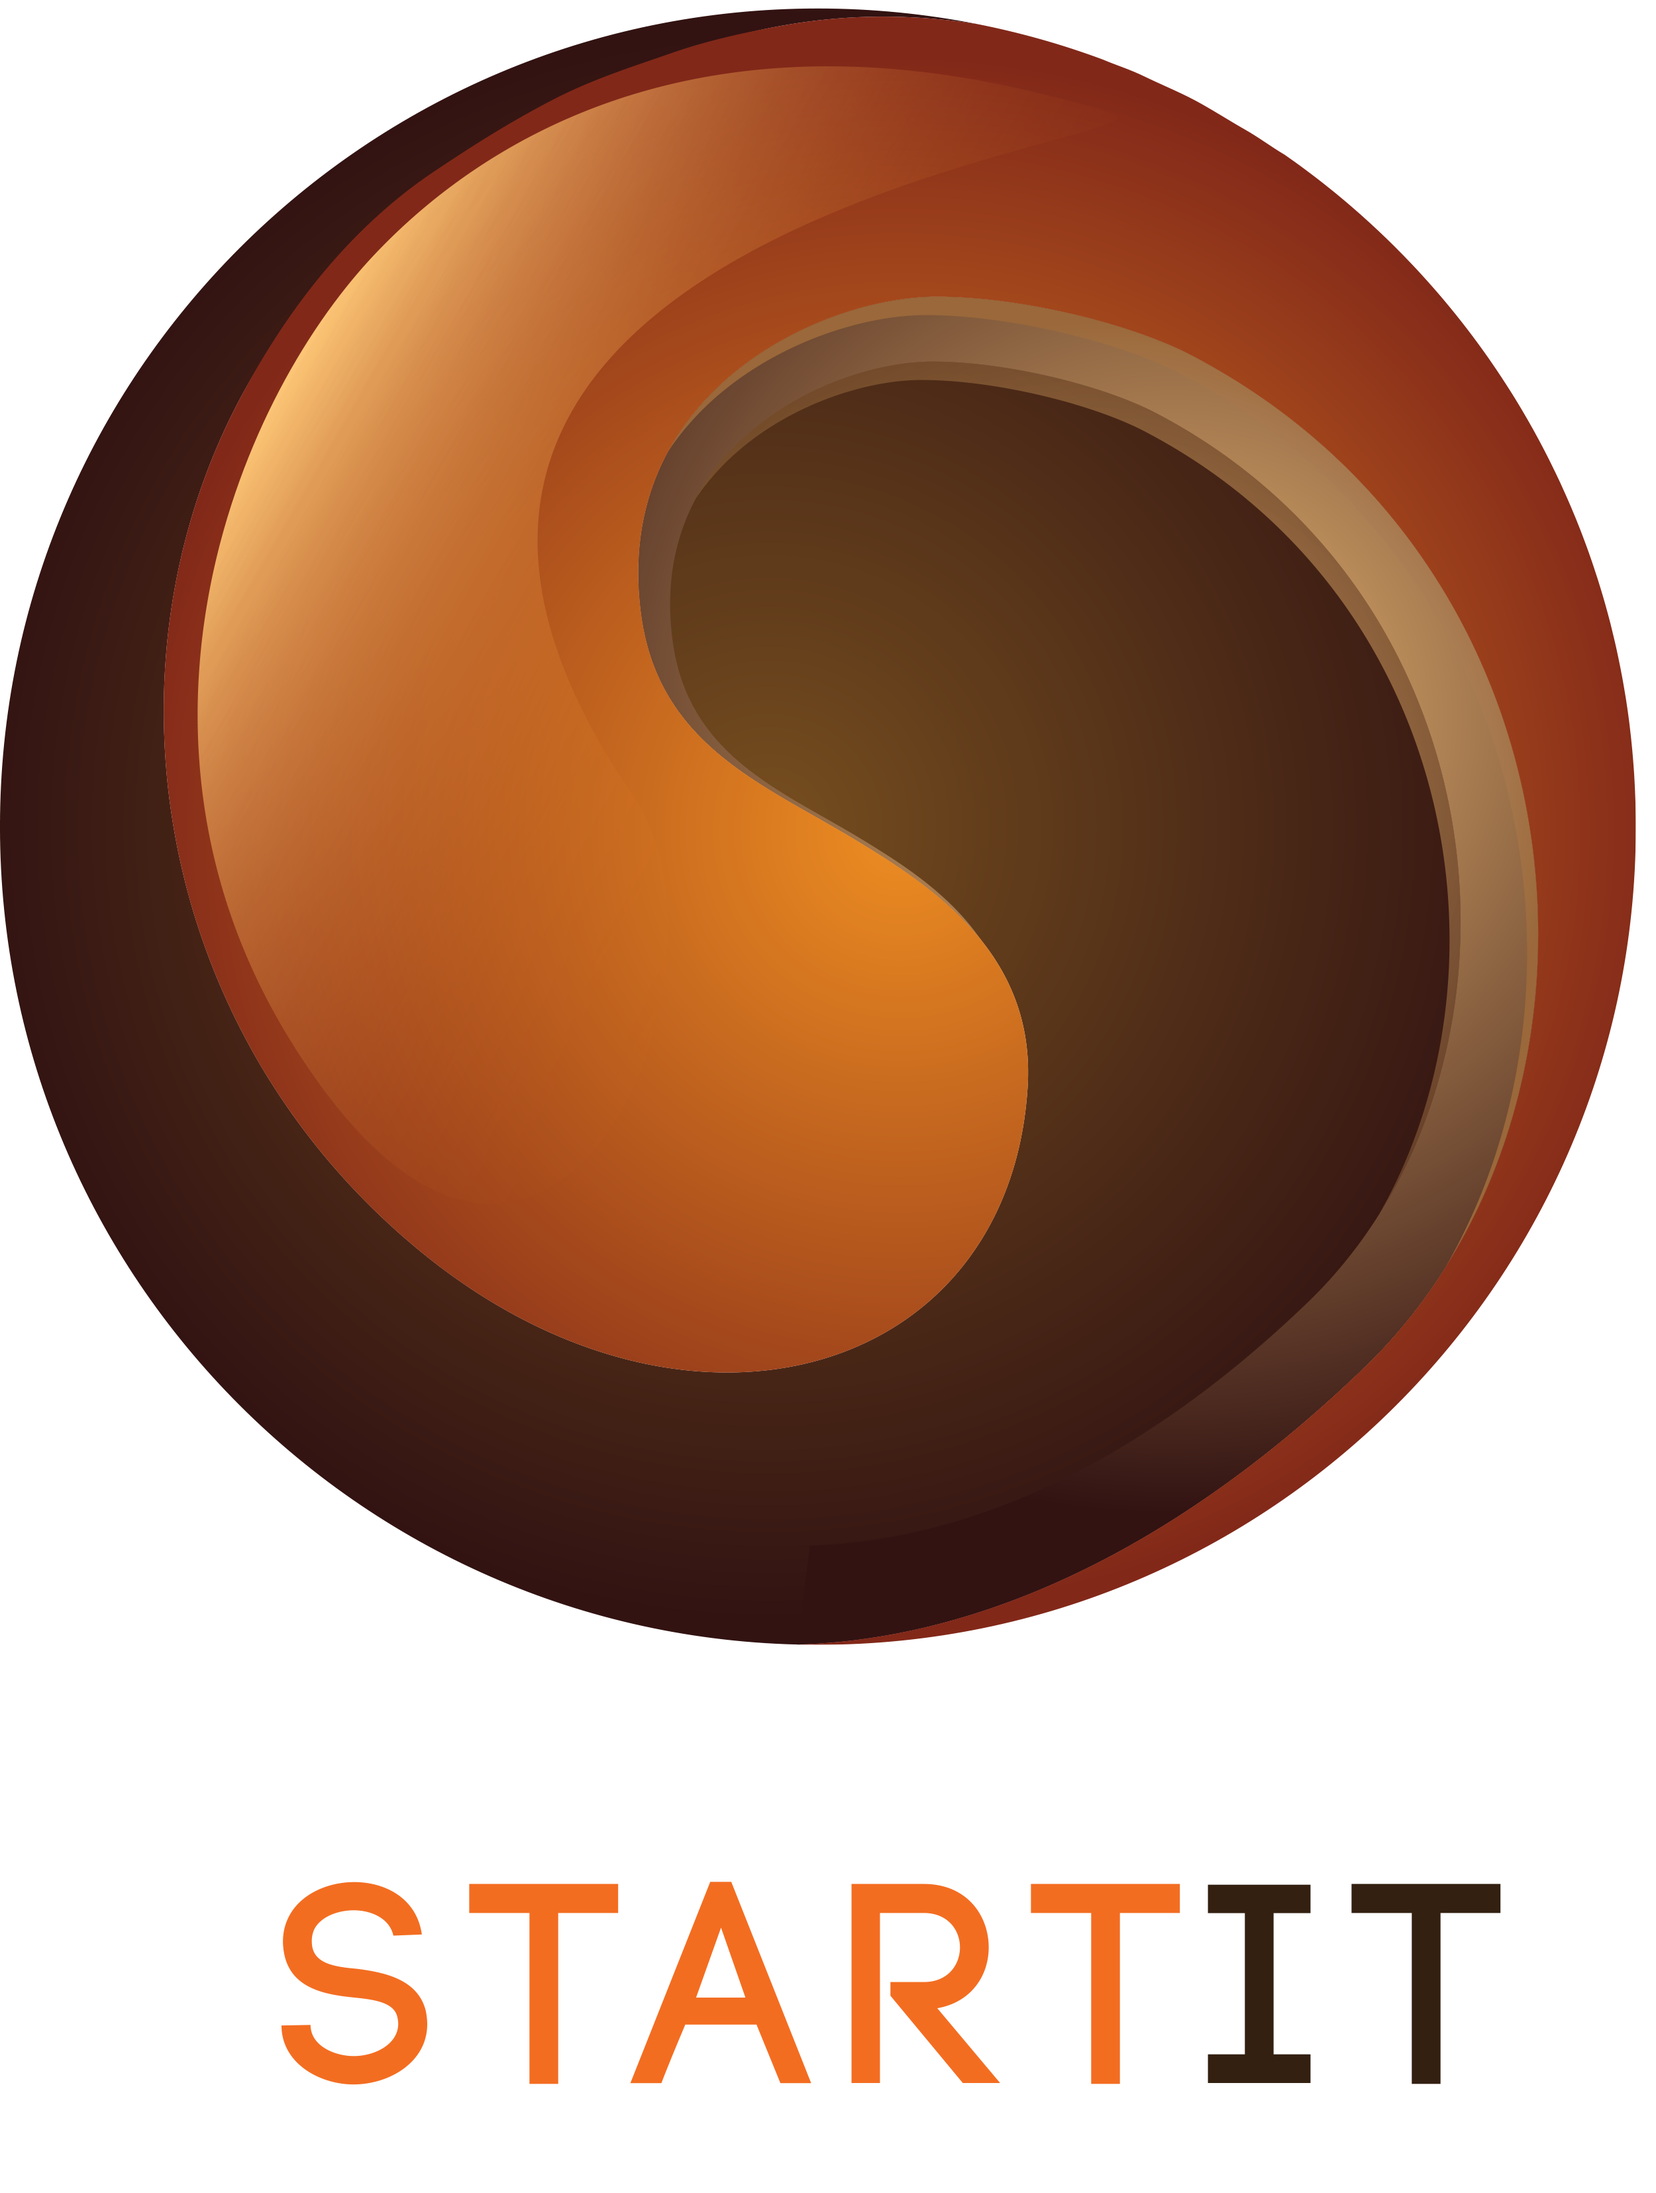
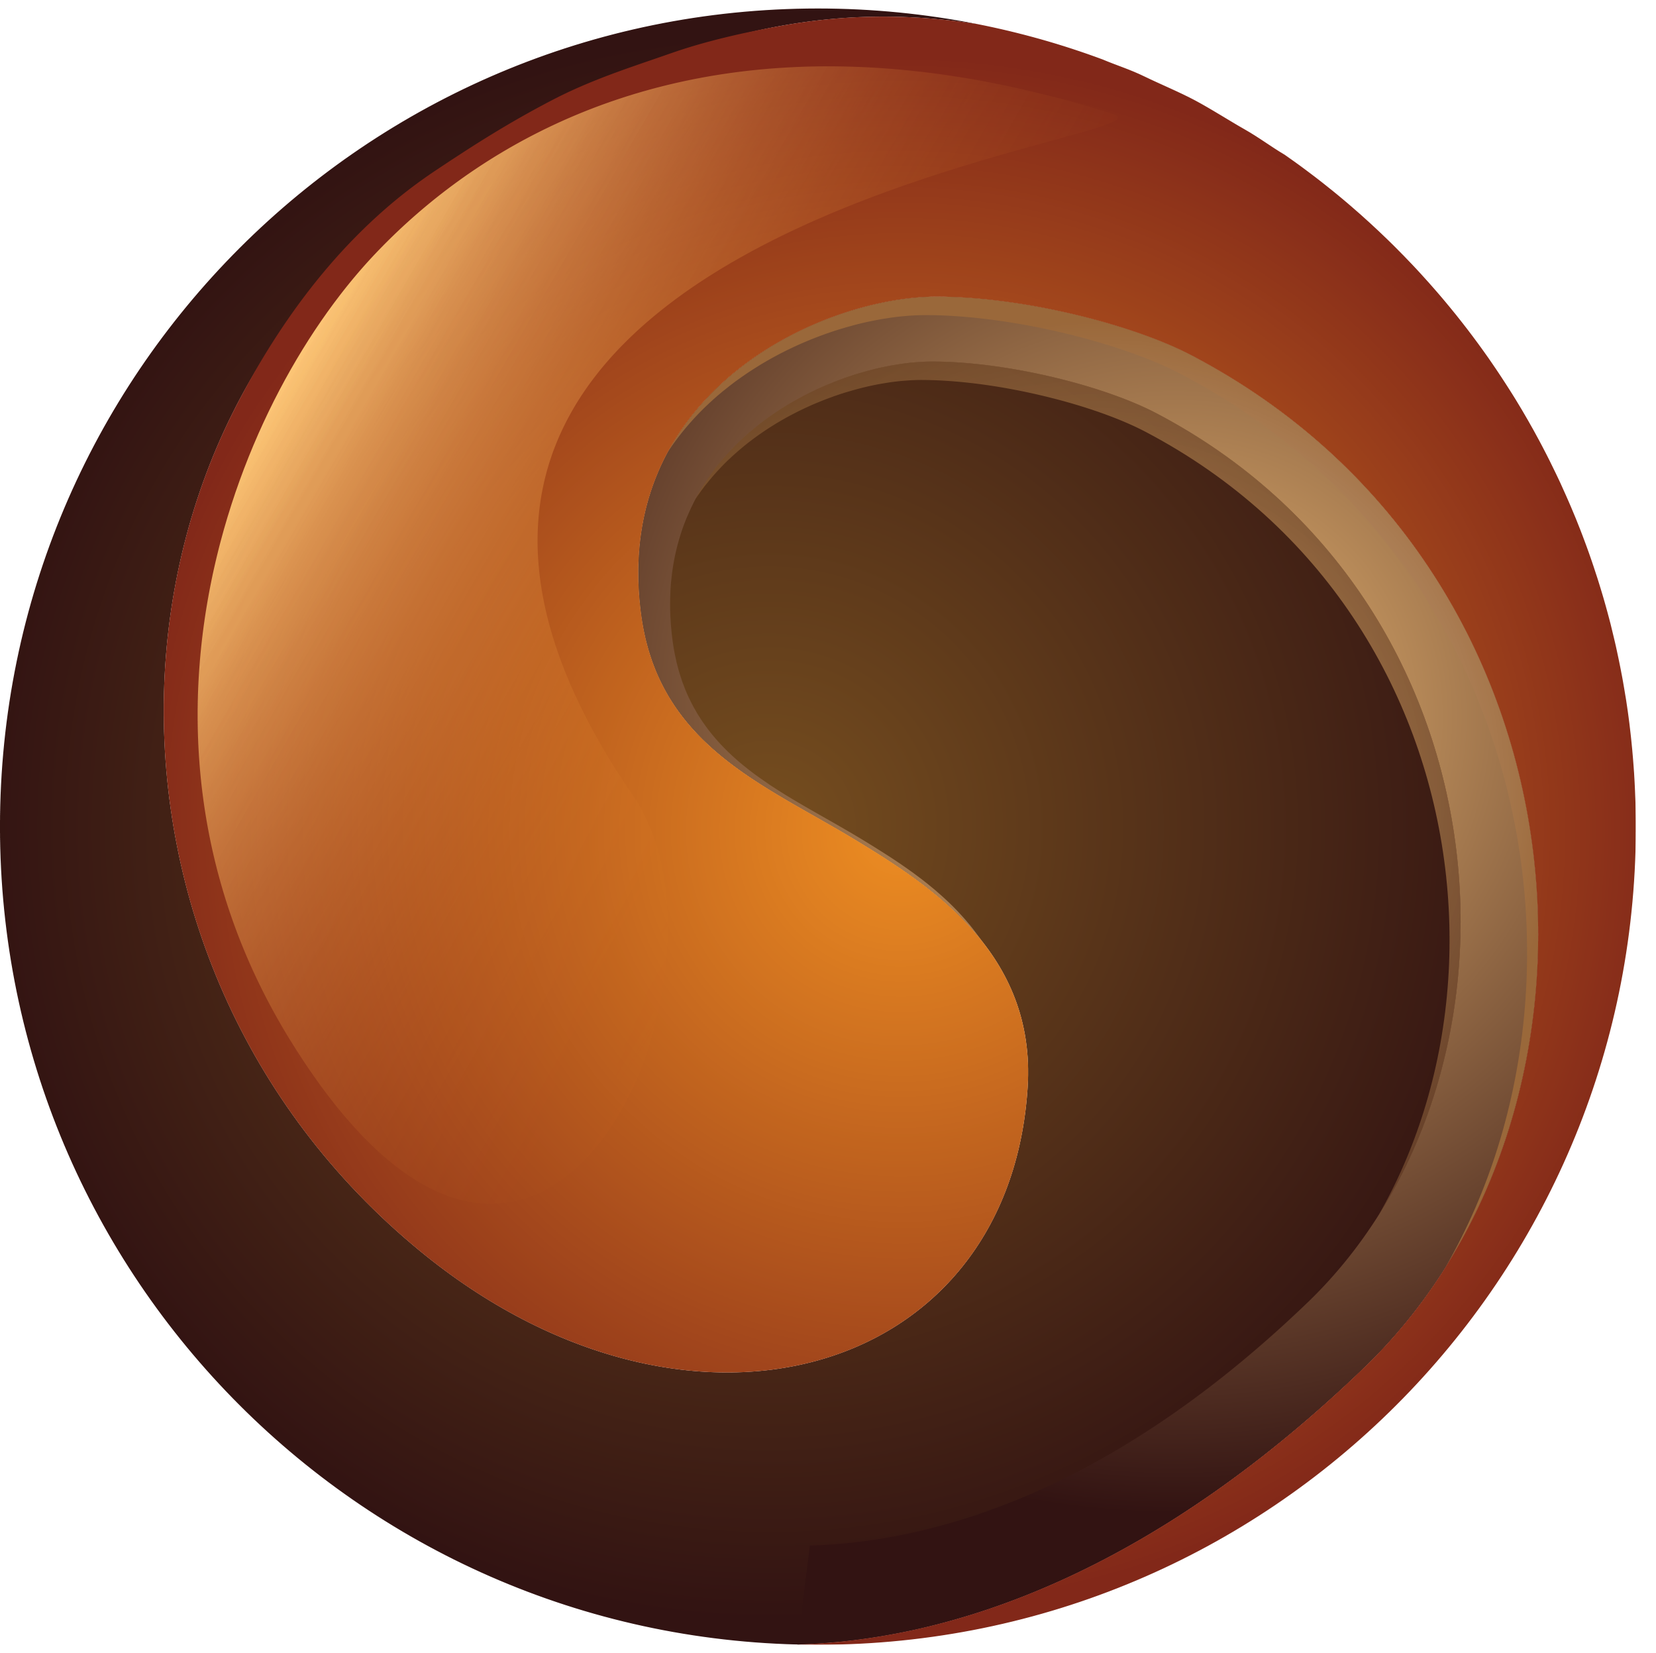
make prev image squared

diff --git a/web/src/pages/partners.tsx b/web/src/pages/partners.tsx
@@ -32,7 +32,7 @@ import SEO from "../components/Seo";
 
 export default function Partners({ data }) {
   return (
-    <div className="App">
+    <>
       <SEO title={"Samarbeidspartnere"} />
       <Layout>
         <Title><div><span style={{color: '#BD6631'}}>SAMARBEIDS</span>PARTNERE</div></Title>
@@ -205,7 +205,7 @@ export default function Partners({ data }) {
           </Partner>
         </PartnerWrapper>*/}
       </Layout>
-    </div>
+    </>
   );
 }
 
